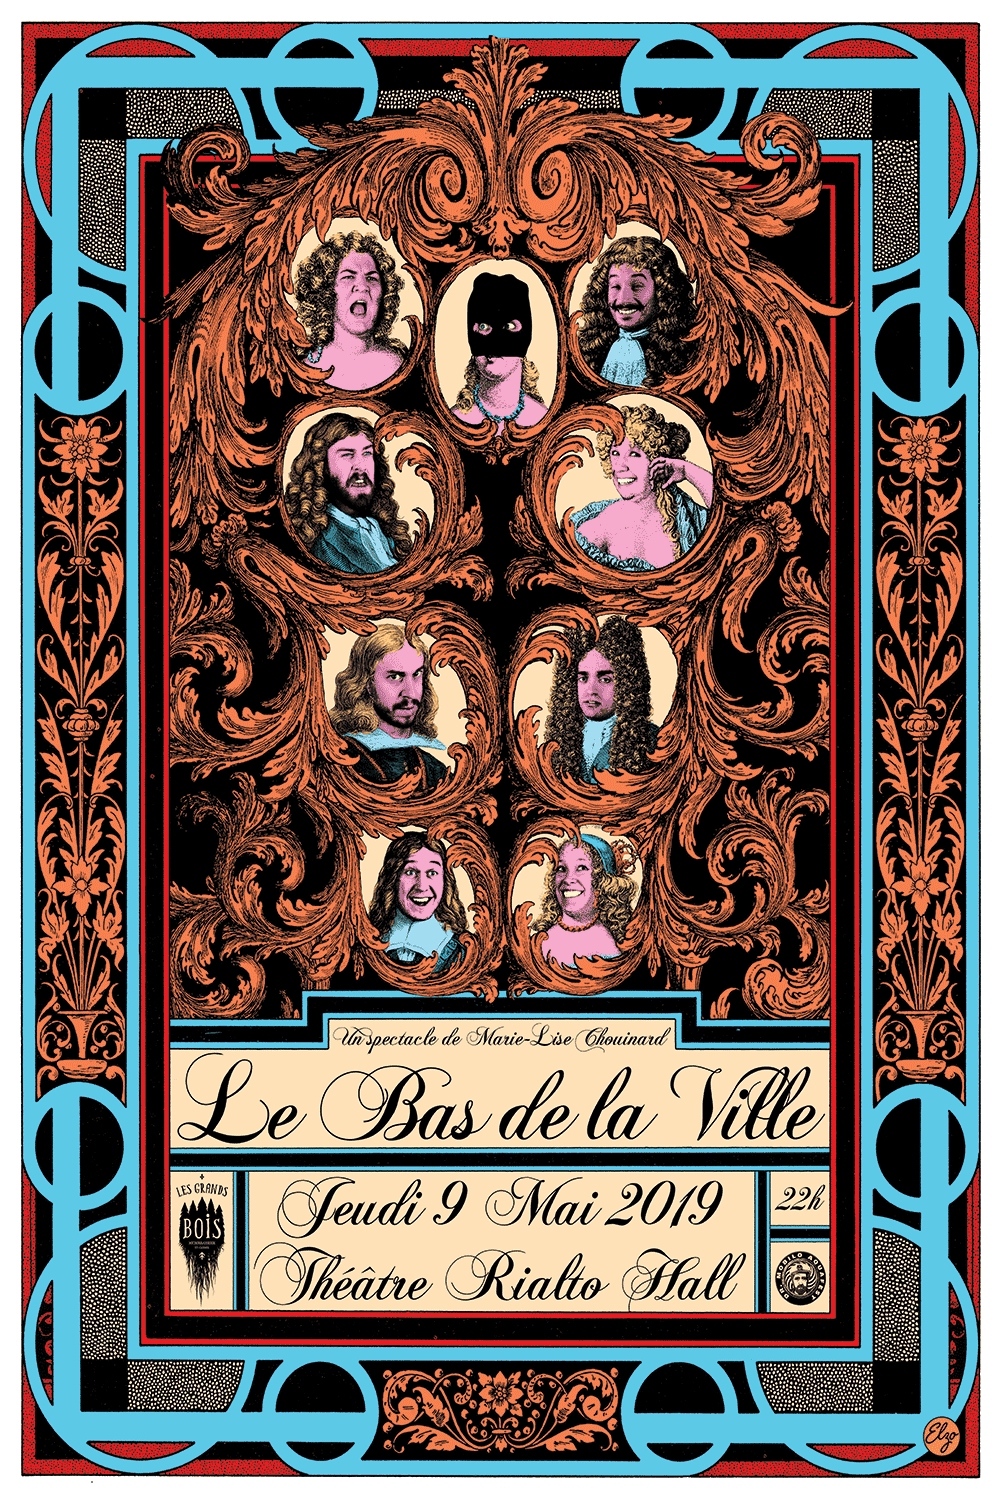
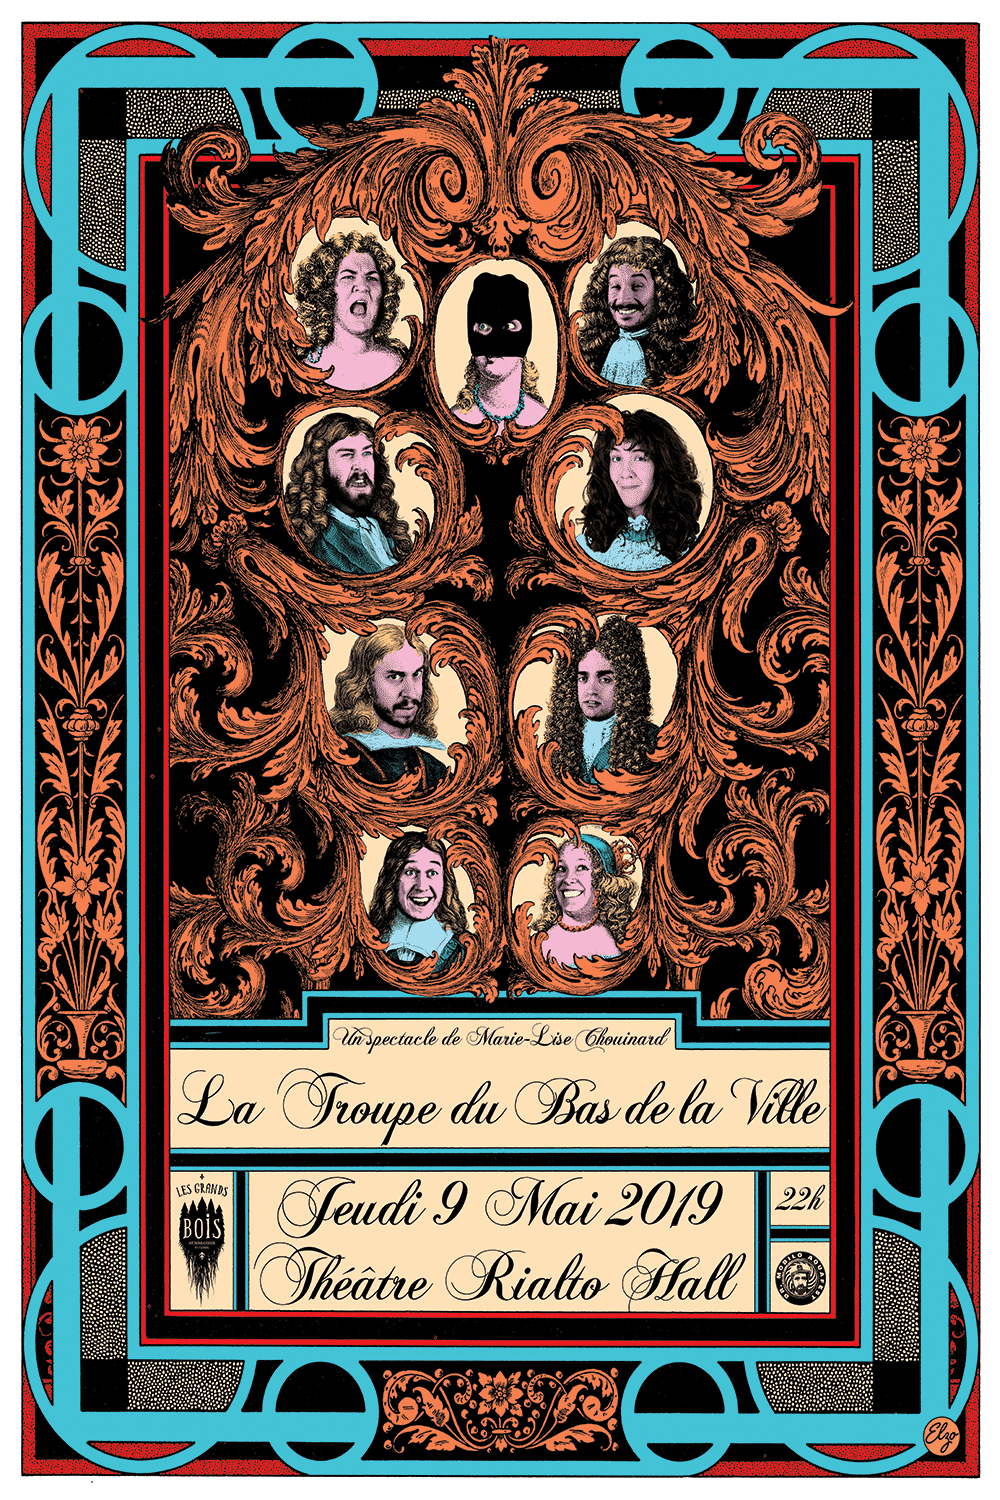
Update Posters & Descriptions

diff --git a/src/pages/spectacles/martin-perrizolo.md b/src/pages/spectacles/martin-perrizolo.md
@@ -10,6 +10,12 @@ scene: Théâtre Fairmount
 artistes:
   - Martin Perizzolo
 ---
-Note d’intention : Ce projet de spectacle en est un de retour aux sources, de reconnexion. Retrouver qui j’étais avant, quand l’envie de monter sur scène, seul et armé d’un micro, m’a bougé pour la première fois. Je me souviens d’avoir déjà eu ce ton malhabile, mais pur, qui réapparait parfois, mais jamais pour longtemps. Enterré sous toutes ces couches d’expérience, de procédés, de règles, inculquées par l’industrie et apprises par survie, pour plaire, me plaire à travers le rire des autres. 
+Note d’intention
 
-Quelle était ma démarche avant toutes ces vagues du métier et ces tempêtes de la vie normale? J’ai envie de faire table rase des idées autos conçues et de proposer un plan de travail, une ébauche avancée d’un futur trait, peut-être granuleux, mais franc. Davantage en contraste qu’en contradiction. Pour un instant ou pour toujours, j’aimerais avoir la force de délaisser ce sentiment de navire, d’épave, pour retrouver celui du canot qui flotte et qui file. Surtout, j’ai le souhait de me faire plaisir, de me laisser guider par les sujets au lieu de les choisir. Sans liens forcés, sans liens jamais, juste une suite d’idées.
+Ce projet de spectacle en est un de retour aux sources, de reconnexion. Retrouver qui j’étais avant, quand l’envie de monter sur scène, seul et armé d’un micro, m’a bougée pour la première fois. Je me souviens d’avoir déjà eu ce ton malhabile, mais pur, qui réapparait parfois, mais jamais pour longtemps. Enterré sous toutes ces couches d’expériences, de procédés, de règles, inculqués par survie, par l’industrie, pour plaire, me plaire à travers le rire des autres. 
+
+Quelle était ma démarche avant toutes ces vagues du métier et ces tempêtes de la vie normale? 
+
+J’ai envie de faire table rase des idées préconçues et de proposer un plan de travail, une ébauche avancée d’un futur trait, peut-être granuleux, mais franc. Les coins qui pincent, pas encore arrondis. J’ai envie de me laisser guider par les sujets au lieu de les choisir. Sans liens forcés, sans liens jamais, juste une suite d’idées. 
+
+Pour un instant ou pour toujours, j’aimerais avoir la force de délaisser mon personnage, enlever mon masque, laisser sortir la lumière autant que le monstre et la murène représente bien les deux.

diff --git a/src/pages/spectacles/processus.md b/src/pages/spectacles/processus.md
@@ -1,7 +1,7 @@
 ---
 templateKey: spectacle
 type: spectacle
-title: Maude Landry - Processus
+title: 'Charles et Maude s’emmêlent : Le Processus'
 dates:
   - billet: 'http://theatrefairmount.tunestub.com/event.cfm?cart&id=290156'
     date: 2019-05-09T02:00:00.000Z
@@ -11,4 +11,5 @@ artistes:
   - Maude Landry
   - Charles Beauchesne
 ---
-Sans prétendre connaître la recette secrète de l’écriture du stand-up, Maude Landry vous invite à assister à son processus de création. Comme deux têtes valent mieux qu’une, elle sera accompagnée de son vieil acolyte, l’auteur Charles Beauchesne. Ensemble, leurs têtes bouillonnent. Ils se donnent le défi de _brainstormer_ et de développer des idées à partir de matériel inédit, à l’état brut. En gros, ils vous montrent du stand-up, mais aussi les coulisses derrière le produit final d’un spectacle, quand vous vous demandez d’un humoriste « Mais où c’est qu’il est allé chercher ça ? ». Un spectacle inédit, inspiré du _making of_, qui n’aura lieu qu’un soir.
+Charles Beauchesne et Maude Landry se sont donnés le défi d'écrire, de tourner, et de réaliser une série de fiction les mettant en vedette. Une affaire à propos d’une femme adulte et de son ami imaginaire. Tout ça en trois mois, avec pas beaucoup d’argent et des horaires de fous.  
+En grande primeur, vous êtes invités à assister à une projection tout à fait spéciale des premiers épisodes dans un TED Talk de type _Actors Studio_ à la manière d’un _making of_ et d’autres mots anglais qui font _showbiz_

diff --git a/src/pages/spectacles/silver-et-colaidstarz.md b/src/pages/spectacles/silver-et-colaidstarz.md
@@ -1,0 +1,15 @@
+---
+templateKey: spectacle
+type: spectacle
+title: Silver & Colaïdstarz
+dates:
+  - billet: 'http://theatrefairmount.tunestub.com/event.cfm?cart&id=290146'
+    date: 2019-05-05T23:30:15.692Z
+  - billet: 'http://theatrefairmount.tunestub.com/event.cfm?cart&id=290150'
+    date: 2019-05-07T02:00:00.000Z
+poster: /img/poster-denis-drolet.png
+scene: Théâtre Fairmount
+artistes:
+  - Les Denis Drolet
+---
+Pour les Denis Drolet, le Dr. Mobilo Aquafest est l’occasion rêvée pour faire appel à leurs amis Lettons, Silver & Colaïdstartz. Ainsi, pendant deux soirs seulement, le quatuor présentera un spectacle de haute voltige, spécialement adapté pour le Mobilo, qui ravira les amateurs d’humour disjoncté pis d’affaires pas claires, genre, du dentifrice. La première partie sera assurée par nul autre que Dracula. Pour vivre une expérience unique, émotive, trash, touchante, absurde et teintée de non-sens, réservez vos billets dès maintenant. De toute façon… Quossé que vous avez de mieux à faire?!

diff --git a/src/pages/spectacles/mur.md b/src/pages/spectacles/mur.md
@@ -1,0 +1,15 @@
+---
+templateKey: spectacle
+type: spectacle
+title: Mûr
+dates:
+  - billet: 'https://secure.ticketpro.ca/?lang=en&server=ww1#def_1311103811'
+    date: 2019-05-08T02:00:00.000Z
+poster: /img/poster-alexandre-forest.png
+scene: Théâtre Rialto Hall
+artistes:
+  - Alexandre Forest
+---
+Après tant d’années à consulter sa psychologue, après tant d’années à être en crise identitaire, après
+tant d’années à remettre le monde dans lequel il vit, Alexandre Forest est enfin Mûr. Le seul spectacle
+aussi délicat qu’un brunch, s’agençant parfaitement avec les douceurs d’un mimosa.

diff --git a/src/pages/spectacles/s-asseoir-sur-un-sabre-doucement.md b/src/pages/spectacles/s-asseoir-sur-un-sabre-doucement.md
@@ -5,7 +5,7 @@ title: 'S’asseoir sur un sabre, doucement'
 dates:
   - billet: 'https://secure.ticketpro.ca/?lang=en&server=ww1#def_1311103811'
     date: 2019-05-06T23:30:00.000Z
-poster: ''
+poster: /img/poster-catherine-ethier.png
 scene: Théâtre Rialto Hall
 artistes:
   - Catherine Éthier
